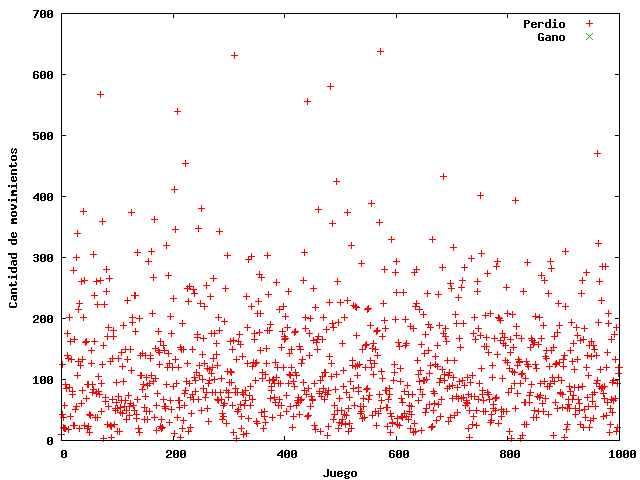
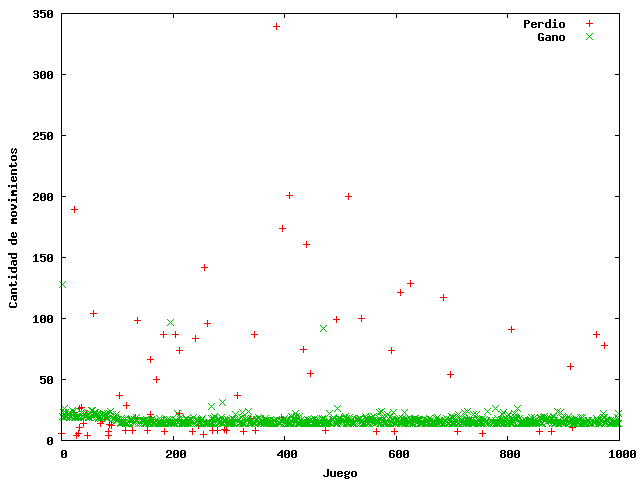
Rewards informe

diff --git a/informe/informe.tex b/informe/informe.tex
@@ -216,15 +216,19 @@ La implementaci\'on de la clase estado, su factorizaci\'on y las funciones de co
  
 \section{Pruebas y resultados}
 	\subsection{Sin Rewards Intermedios}
+
+
 	\subsection{Aplicando Rewards Intermedios}
 	
-A continuaci\'on evaluamos cada uno de los distintos algoritmos aplicando las distintas configuraciones de rewards intermedios antes mencionadas, tanto para navegaci\'on como para stones destruidas. El objetivo es analizar c\'omo la aplicaci\'on de recompensas intermedias favorecen, a modo de breadcrumb, la convergencia de los distintos agentes.
+A continuaci\'on evaluamos cada uno de los distintos algoritmos aplicando las distintas configuraciones de rewards intermedios antes mencionadas, tanto para navegaci\'on como para stones destruidas. El objetivo es analizar c\'omo la aplicaci\'on de recompensas intermedias favorecen, a modo de breadcrumb, la convergencia de los distintos agentes\footnote{No incluimos a los agentes de R-Max factorizado ni Sarsa-$\lambda$ pues los resultados obtenidos no fueron satisfactorios, independientemente de la aplicaci\'on de rewards}.
+
+Todas las pruebas fueron ejecutadas sobre tableros de $5 \times 5$, a excepci\'on de RMax que fue ejecutado sobre un tablero de $3 \times 3$ debido al alto tiempo de procesamiento que tuvo.
 
 \subsubsection{Q-Learning}
 
 En la figura \ref{fig:qlearnrewards} presentamos el comportamiento del algoritmo de q-learning de acuerdo a las distintas configuraciones de rewards. 
 
-Como se puede observar, la aplicaci\'on de navigation rewards no tiene un efecto importante sobre el punto de convergencia, aunque s\'i ayuda a que las partidas ganadas se mantengan m\'as cercanas al \'optimo. Resulta particular el hecho de que los juegos realizados previos al punto de convergencia requieran una mayor cantidad de movimientos al aplicar estas rewards.
+Como se puede observar, la aplicaci\'on de navigation rewards no genera una mejora importante sobre el punto de convergencia (por el contrario, lo empeora), aunque s\'i ayuda a que las partidas ganadas se mantengan m\'as cercanas al \'optimo. Resulta particular el hecho de que los juegos realizados previos al punto de convergencia requieran una mayor cantidad de movimientos al aplicar estas rewards.
 
 Las bomb rewards, por otro lado, tienen un efecto importante en el momento en que el algoritmo converge, reduciendo notablemente la cantidad de juegos que el agente necesita para llegar a una estrategia ganadora, as\'i como la cantidad de movimientos usados en los juegos iniciales. La diferencia entre las dos configuraciones de bomb rewards es \'infima.
 
@@ -238,6 +242,125 @@ Las bomb rewards, por otro lado, tienen un efecto importante en el momento en qu
 \caption{Comportamiento del algoritmo q-learning dependiendo de las distintas configuraciones de rewards intermedias; cada gr\'afico muestra la cantidad de movimientos en funci\'on del n\'umero de juego, distinguiendo si el agente gan\'o o perdi\'o.}
 \label{fig:qlearnrewards}
 \end{figure}
+
+
+\subsubsection{Dyna}
+
+En \ref{fig:dynarew} presentamos los gr\'aficos correspondientes al efecto de la aplicaci\'on de rewards intermedias para el algoritmo dyna.
+
+En este caso, a diferencia de q-learning, la aplicaci\'on de rewards intermedias para navegaci\'on mejor\'o notablemente la velocidad de convergencia del algoritmo, al punto de que el agente perdiera en muy pocas oportunidades, dando excelentes resultados. De todas maneras, y al igual que en el caso de q-learning, la aplicaci\'on de estas rewards llev\'o a que en los juegos perdidos la cantidad de movimientos fuera mucho mayor.
+
+Las bomb rewards, por otra parte, tambi\'en mejoraron notablemente la velocidad de convergencia hacia una estrategia ganadora, aunque en menor medida que las rewards de navegaci\'on. Nuevamente se observa una reducci\'on en la cantidad de movimientos realizada en los juegos perdidos. 
+
+En este caso, las recompensas constantes para todas las stones dieron resultados levemente mejores que la contraparte proporcional a la distancia a la salida.
+
+\begin{figure}
+\centering
+\subfloat[Sin rewards intermedias]{\includegraphics[width=0.5\textwidth]{corridas/DynaNoRewards-result.png}}
+\subfloat[Navigation rewards]{\label{fig:tiger}\includegraphics[width=0.5\textwidth]{corridas/DynaNavigationRewards-result.png}}
+\\
+\subfloat[Bomb rewards]{\includegraphics[width=0.5\textwidth]{corridas/DynaBombRewards-result.png}}
+\subfloat[Bomb rewards relativas a la distancia a la salida]{\includegraphics[width=0.5\textwidth]{corridas/DynaBombProportionalToExit-result.png}}
+\caption{Comportamiento del algoritmo dyna dependiendo de las distintas configuraciones de rewards intermedias; cada gr\'afico muestra la cantidad de movimientos en funci\'on del n\'umero de juego, distinguiendo si el agente gan\'o o perdi\'o.}
+\label{fig:dynarew}
+\end{figure}
+
+\subsubsection{R-Max}
+
+Para el caso de R-Max, como puede verse en la figura \ref{fig:rmaxrew}, el comportamiento var\'ia muy poco de acuerdo a las rewards aplicadas. En todos los casos se mantiene el comportamiento de arribar a una estrategia ganadora r\'apidamente y no intentar explorar alternativa alguna. 
+
+Las ligeras diferencias observadas entre las distintas configuraciones de rewards dependen m\'as del componente aleatorio que tiene el algoritmo a la hora de elegir una acci\'on (en caso de no tener informaci\'on suficiente para tomar una decisi\'on), que de una diferencia efectiva generada por las rewards intermedias.
+
+De todas maneras, cabe destacar que la estrategia arribada pasa de tener $10$ movimientos en los casos sin rewards y con rewards constantes por stones, a tener $9$ en las configuraciones restantes.
+
+\begin{figure}
+\centering
+\subfloat[Sin rewards intermedias]{\includegraphics[width=0.5\textwidth]{corridas/RmaxNoRewards-result.png}}
+\subfloat[Navigation rewards]{\label{fig:tiger}\includegraphics[width=0.5\textwidth]{corridas/RMaxNavigationRewards-result.png}}
+\\
+\subfloat[Bomb rewards]{\includegraphics[width=0.5\textwidth]{corridas/RMaxBombRewards-result.png}}
+\subfloat[Bomb rewards relativas a la distancia a la salida]{\includegraphics[width=0.5\textwidth]{corridas/RMaxBombProportionalToExit-result.png}}
+\caption{Comportamiento del algoritmo R-Max dependiendo de las distintas configuraciones de rewards intermedias; cada gr\'afico muestra la cantidad de movimientos en funci\'on del n\'umero de juego, distinguiendo si el agente gan\'o o perdi\'o.}
+\label{fig:rmaxrew}
+\end{figure}
+
+\subsubsection{Sarsa}
+
+Los resultados de las aplicaciones de las rewards intermedios para Sarsa pueden verse en la figura \ref{fig:sarsarew}. Si bien los resultados obtenidos por Sarsa, independientemente de las rewards, no son muy satisfactorios, tanto por la cantidad de juegos perdidos como por la cantidad de movimientos por juego, el uso rewards muestra una cierta mejora en la cantidad de juegos ganados.
+
+Las bomb rewards, al igual que en los casos anteriores, generan una leve reducci\'on en la cantidad de movimientos por juego, aunque en este caso afectando tanto a los juegos ganados como a los perdidos.
+
+\begin{figure}
+\centering
+\subfloat[Sin rewards intermedias]{\includegraphics[width=0.5\textwidth]{corridas/SarsaNoRewards-result.png}}
+\subfloat[Navigation rewards]{\label{fig:tiger}\includegraphics[width=0.5\textwidth]{corridas/SarsaNavigationReward-result.png}}
+\\
+\subfloat[Bomb rewards]{\includegraphics[width=0.5\textwidth]{corridas/SarsaBombReward-result.png}}
+\subfloat[Bomb rewards relativas a la distancia a la salida]{\includegraphics[width=0.5\textwidth]{corridas/SarsaBombProportionalToExit-result.png}}
+\caption{Comportamiento del algoritmo Sarsa dependiendo de las distintas configuraciones de rewards intermedias; cada gr\'afico muestra la cantidad de movimientos en funci\'on del n\'umero de juego (notar que el n\'umero de juego debe multiplicarse por 10), distinguiendo si el agente gan\'o o perdi\'o.}
+\label{fig:sarsarew}
+\end{figure}
+
+
+\clearpage
+
+
+\subsection{Comparaci\'on}
+
+Volcamos en la tabla \ref{table:rewards} los datos correspondientes al tiempo promedio por movimiento, el punto de convergencia y la menor cantidad de movimientos alcanzada por cada algoritmo seg\'un distintas rewards para una f\'acil comparaci\'on entre ellos. Es importante para la comparaci\'on recordar que RMax fue ejecutado sobre un tablero de menor tama\'no; asimismo incluimos en esta secci\'on Sarsa-$\lambda$ pese a no haber logrado resultados aceptables.
+
+Los tiempos de procesamiento se ven poco afectados por la aplicaci\'on de rewards, manteni\'endose bajos para algoritmos livianos como Q-learning o Sarsa, y con valores m\'as altos para Dyna, Sarsa-$\lambda$ y especialmente RMax.
+
+La convergencia var\'ia dependiendo del algoritmo. Un model-based, como ser Dyna, acelera notablemente la convergencia al tener hints de navegaci\'on o de bombas, aunque la aplicaci\'on de rewards proporcionales a la salida para las bombas result\'o no ser acertada. En el caso de Q-learning, siendo model free, por el contrario, las rewards por bombas aceleran la convergencia, mientras que la navegaci\'on la hace m\'as lenta.
+
+Tal vez la conclusi\'on m\'as destacable sea el cambio generado en la estrategia \'optima al a\'nadir rewards por stones destruidas. Los algoritmos que mejores resultados dieron, Q-Learning y Dyna, generan una estrategia sub\'optima al incluir estas rewards. Esto puede explicarse en el hecho de que el agente, al obtener una recompensa al destruir una pared, opta por destruir paredes innecesarias en lugar de dirigirse a la salida lo m\'as r\'apidamente posible. 
+
+De este hecho concluimos que el decay factor $\gamma$ no era lo suficientemente pronunciado, con lo que en t\'erminos de largo plazo el agente juzg\'o que era m\'as provechoso destruir m\'as stones a pesar de ver reducida por decay la recompensa final.
+
+\begin{table}
+\label{table:rewards}
+\centering
+
+\begin{tabular}{|ll|r|r|r|}
+\hline
+\textbf{Agente} & \textbf{Reward} & \textbf{Tiempo} & \textbf{Convergencia} & \textbf{Optimo} \\
+\hline
+\hline
+Q Learning & None & 7.41e-05 & 167 & 13 \\
+Q Learning & Navigation & 6.45e-05 & 329 & 13 \\
+Q Learning & Bomb & 7.34e-05 & 129 & 21 \\
+Q Learning & $\Delta_{exit}$ Bomb & 7.69e-05 & 105 & 21 \\
+\hline
+Dyna & None & 1.27e-02 & 115 & 13 \\
+Dyna & Navigation & 1.19e-03 & 2 & 13 \\
+Dyna & Bomb & 8.79e-03 & 30 & 27 \\
+Dyna & $\Delta_{exit}$ Bomb & 3.40e-03 & 155 & 24 \\
+\hline
+Sarsa & None & 5.89e-05 & None & 13 \\
+Sarsa & Navigation & 4.77e-05 & None & 13 \\
+Sarsa & Bomb& 6.04e-05 & None & 13 \\
+Sarsa & $\Delta_{exit}$ Bomb & 5.26e-05 & None & 13 \\
+\hline
+Sarsa-$\lambda$ & None & 1.89e-02 & None & 16 \\
+Sarsa-$\lambda$ & Bomb & 1.89e-02 & None & 26 \\
+Sarsa-$\lambda$ & Navigation & 1.77e-02 & None & 20 \\
+Sarsa-$\lambda$ & $\Delta_{exit}$ Bomb & 1.61e-02 & None & 23 \\
+\hline
+R-Max $_{3 \times 3}$ & None & 6.15e-02 & 18 & 10 \\
+R-Max $_{3 \times 3}$& Navigation & 1.08e-01 & 29 & 9 \\
+R-Max $_{3 \times 3}$& Bomb & 2.73e-02 & 15 & 10 \\
+R-Max $_{3 \times 3}$& $\Delta_{exit}$ Bomb & 1.14e-01 & 28 & 9 \\
+\hline
+\end{tabular}
+
+\caption{Tiempo promedio por movimiento, cantidad de juegos requerida hasta lograr convergencia y mejor estrategia desarrollada para ganar medida en cantidad de movimientos; definimos convergencia como el punto a partir del cual la cantidad de juegos perdidos no supera determinado porcentaje ($20\%$) de los ganados.}
+
+\end{table}
+
+
+\clearpage
+
+
 
 
 	\subsection{Rewards Intermedios por posici\'on del bomberman}
@@ -261,7 +384,7 @@ DynaBombProportionalToExit-result.out & 3.40e-03 & 155 & 24 \\
 QLearningBombProportionalToExit-result.out & 7.69e-05 & 105 & 21 \\
 SarsaBombProportionalToExit-result.out & 5.26e-05 & None & 13 \\
 SarsaLambdaBombProportionalToExit-result.out & 1.61e-02 & None & 23 \\
-DynaNavigationRewards-result.out & 3.75e-03 & 1184 & 13 \\
+DynaNavigationRewards-result.out & 1.19e-03 & 2 & 13 \\
 QlearningNavigationReward-result.out & 6.45e-05 & 329 & 13 \\
 SarsaLambdaNavigationRewards-result.out & 1.77e-02 & None & 20 \\
 SarsaNavigationReward-result.out & 4.77e-05 & None & 13 \\

diff --git a/rl.bomber/Settings.py b/rl.bomber/Settings.py
@@ -1,56 +1,20 @@
 from Constants import *
 
-# ---------------------------------------
-# Manager Settings and Run Configurations
-# ---------------------------------------
-
-# prefix for output files
-CONFIGURATION_NAME = "default"
-
-# amount of games the agent will play
-ITERATIONS = 100000
-# if more than MAX_TURNS are used the bomberman dies
+CONFIGURATION_NAME = "DynaNavigationRewards"
+ITERATIONS = 1000
 MAX_TURNS = 1000
-
-AGENT = SARSA
-
+#QLEARNING SARSA SARSALAMBDA DYNA
+AGENT = DYNA
+# STOCHASTIC_NAVIGATION  STOCHASTIC_EXPLOSION  
 TASK = DETERMINISTIC
-
-# ------------------
-# Bomberman Settings
-# ------------------
-
-# an immortal bomberman does not die due to bomb explosions
 IS_IMMORTAL = False
-
-# size of the map, look in Maps.py file for details
-MAP_SIZE = 8
-
-# -------------------
-# Stochastic Settings
-# -------------------
-
-# bomb exploding probability for StochasticExplosionTask
+MAP_SIZE = 5
 BOMB_EXPLODING_PROBABILITY = 0.9
-
-# ------------------
-# Factoring Settings
-# ------------------
-
-# whether to use delta bomb as a redundant factor 
-USE_DELTABOMB_FACTOR = True
-
-# -----------
-# RL Settings
-# -----------
-
-# bomb rewards policy (options in Constants.py)
 BOMB_REWARD_POLICY = BOMB_NO_REWARD
-
-# navigation rewards policy (options in Constants.py)
-NAVIGATION_REWARD = NAVIGATION_NO_REWARD
-
-# win/lose rewards
+NAVIGATION_REWARD = NAVIGATION_REWARD_PROPORTIONAL_TO_EXIT
 WIN_REWARD = 10000.0
 LOSE_REWARD = -10000.0
 BOMB_REWARD = 10.0
+NO_ACTION_NEGATIVE_REWARD = True
+INITIAL_REWARD = -1
+USE_DELTABOMB_FACTOR = True
